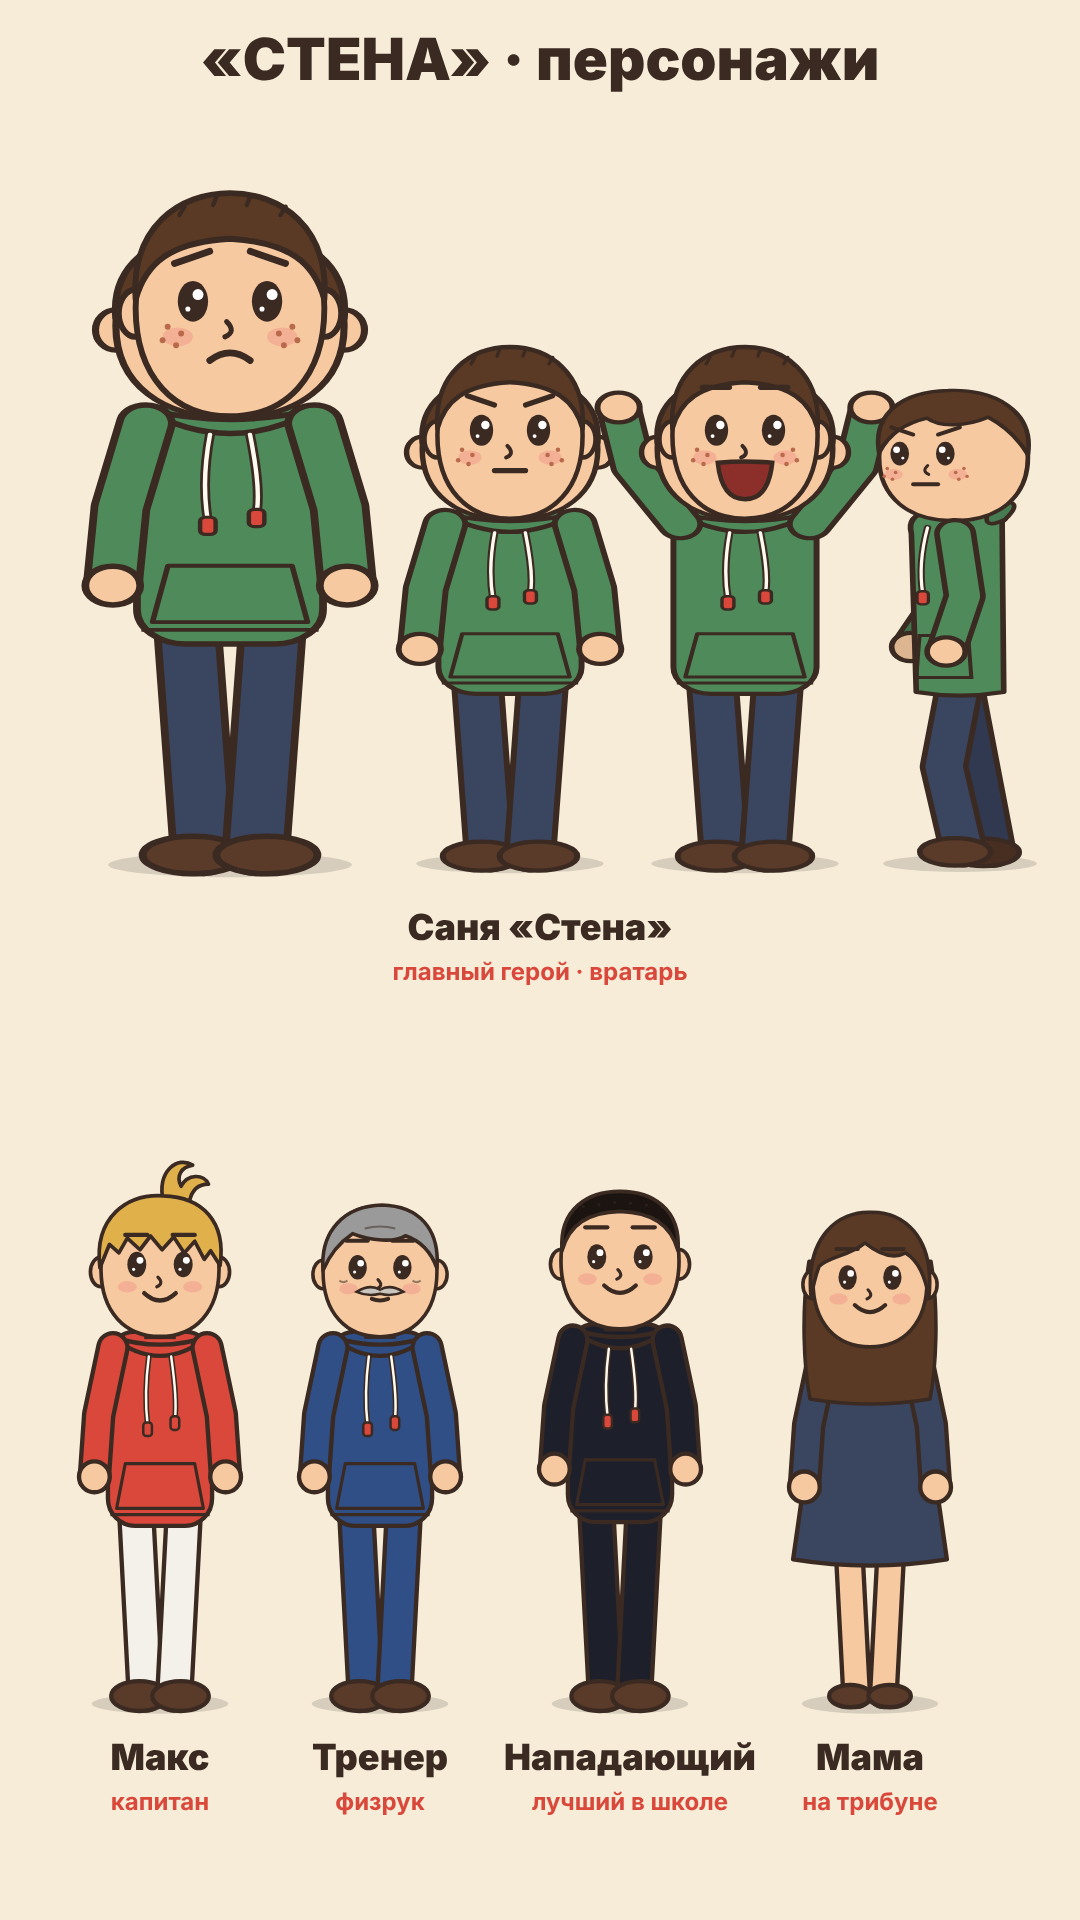
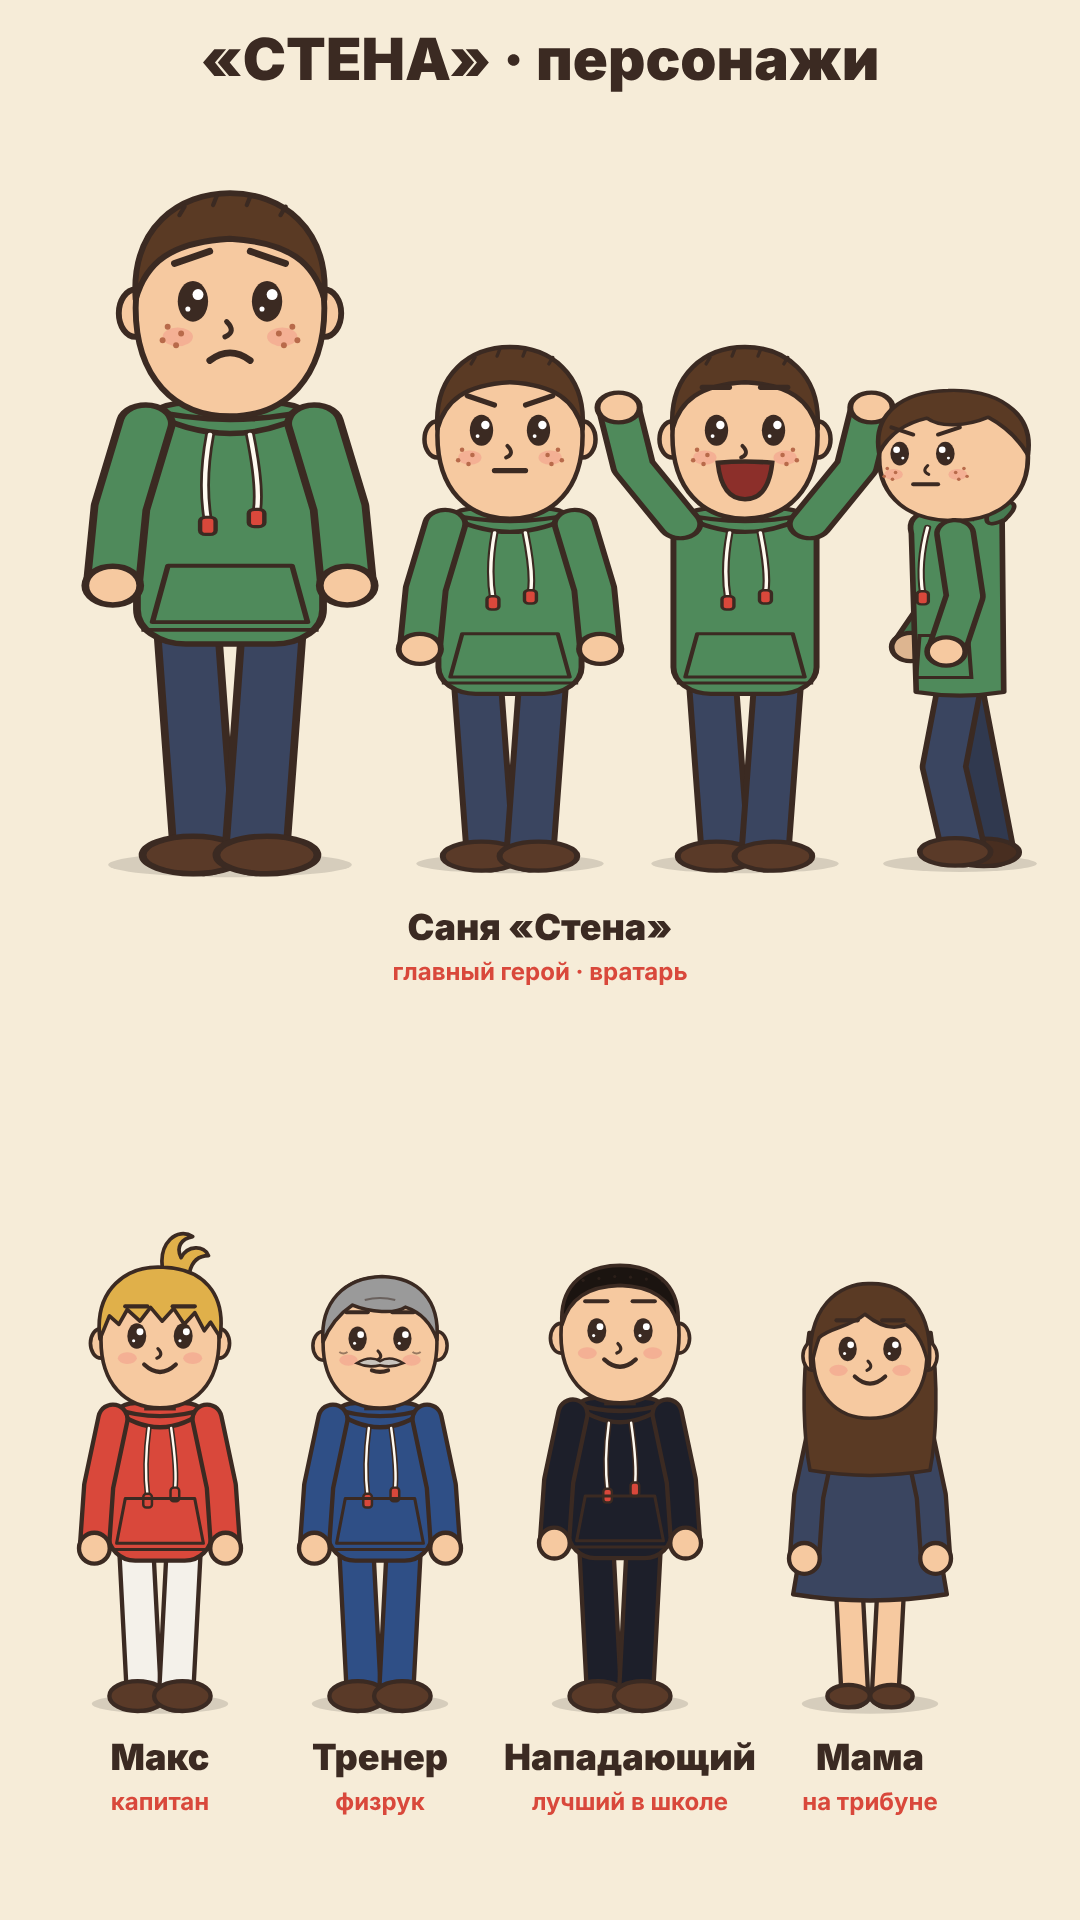
«Стена»: выше только Саня, убрано второе лицо
Claude-Session: https://claude.ai/code/session_01FMPcn1gTY6X1SxnGQfzkF6

diff --git a/videos/dvazhdy/src/series/Stena.tsx b/videos/dvazhdy/src/series/Stena.tsx
@@ -7,13 +7,14 @@ import {ShotCtx} from '../lib';
 // «Стена» — сериал про Саню, которого зовут «Жирный». Character sheet.
 
 type F = React.ComponentProps<typeof Char>['face'];
+const NECK = 560; // body top (below the head) in Char units at s=1
 /** Big kid: body stretched wide, head drawn on top un-stretched but larger → round full face. */
 export const Sanya: React.FC<{x: number; y: number; s: number; face?: F; armL?: [number, number]; armR?: [number, number]; talk?: number; gloves?: boolean}> = ({x, y, s, face = 'smile', armL, armR, talk = 0, gloves}) => {
 	const p = {hair: 'crew' as const, hairColor: '#5a3a24', jacket: '#4f8a5b', pants: '#3a4560', hoodie: true, headS: 0.92, bodyS: 1.4, headDrop: 30, face, talk, freckles: true, ...(armL ? {armL} : {}), ...(armR ? {armR} : {})};
 	return (
 		<g>
 			<g transform={`translate(${x} ${y}) scale(1.42 1) translate(${-x} ${-y})`}>
-				<Char x={x} y={y} s={s} {...p} />
+				<Char x={x} y={y} s={s} {...p} headS={0.001} />
 			</g>
 			<Char x={x} y={y} s={s} {...p} headS={1.08} headOnly />
 			{gloves && armL && armR && null}
@@ -25,10 +26,10 @@ export const SanyaSide: React.FC<{x: number; y: number; s: number; dir?: 1 | -1;
 		<SideChar x={x} y={y} s={s} dir={dir} face={face} walk={walk} bodyS={1.4} hair="short" hairColor="#5a3a24" jacket="#4f8a5b" pants="#3a4560" hoodie freckles />
 	</g>
 );
-const Max: React.FC<{x: number; y: number; s: number; face?: F; armR?: [number, number]}> = (p) => <Char {...p} hair="lyokha" hairColor="#e0b04a" jacket="#d9483b" pants="#f4f1ea" hoodie headS={0.85} bodyS={1.42} headDrop={18} />;
-const Coach: React.FC<{x: number; y: number; s: number; face?: F}> = (p) => <Char {...p} hair="old" hairColor="#9a9a9a" mustache jacket="#2f4f86" pants="#2f4f86" hoodie headS={0.82} bodyS={1.42} headDrop={18} />;
-const Striker: React.FC<{x: number; y: number; s: number; face?: F}> = (p) => <Char {...p} hair="buzz" hairColor="#1b1410" jacket="#1d1f2a" pants="#1d1f2a" hoodie headS={0.85} bodyS={1.45} headDrop={18} />;
-const Mom: React.FC<{x: number; y: number; s: number; face?: F}> = (p) => <Char {...p} hair="long" hairColor="#5a3a24" jacket="#c0603e" pants="#3a4560" skirt="#3a4560" headS={0.82} bodyS={1.38} headDrop={18} />;
+const Max: React.FC<{x: number; y: number; s: number; face?: F; armR?: [number, number]}> = (p) => <Char {...p} hair="lyokha" hairColor="#e0b04a" jacket="#d9483b" pants="#f4f1ea" hoodie headS={0.85} bodyS={1.14} headDrop={18} />;
+const Coach: React.FC<{x: number; y: number; s: number; face?: F}> = (p) => <Char {...p} hair="old" hairColor="#9a9a9a" mustache jacket="#2f4f86" pants="#2f4f86" hoodie headS={0.82} bodyS={1.14} headDrop={18} />;
+const Striker: React.FC<{x: number; y: number; s: number; face?: F}> = (p) => <Char {...p} hair="buzz" hairColor="#1b1410" jacket="#1d1f2a" pants="#1d1f2a" hoodie headS={0.85} bodyS={1.16} headDrop={18} />;
+const Mom: React.FC<{x: number; y: number; s: number; face?: F}> = (p) => <Char {...p} hair="long" hairColor="#5a3a24" jacket="#c0603e" pants="#3a4560" skirt="#3a4560" headS={0.82} bodyS={1.1} headDrop={18} />;
 
 const Label: React.FC<{x: number; y: number; name: string; role: string}> = ({x, y, name, role}) => (
 	<g>
